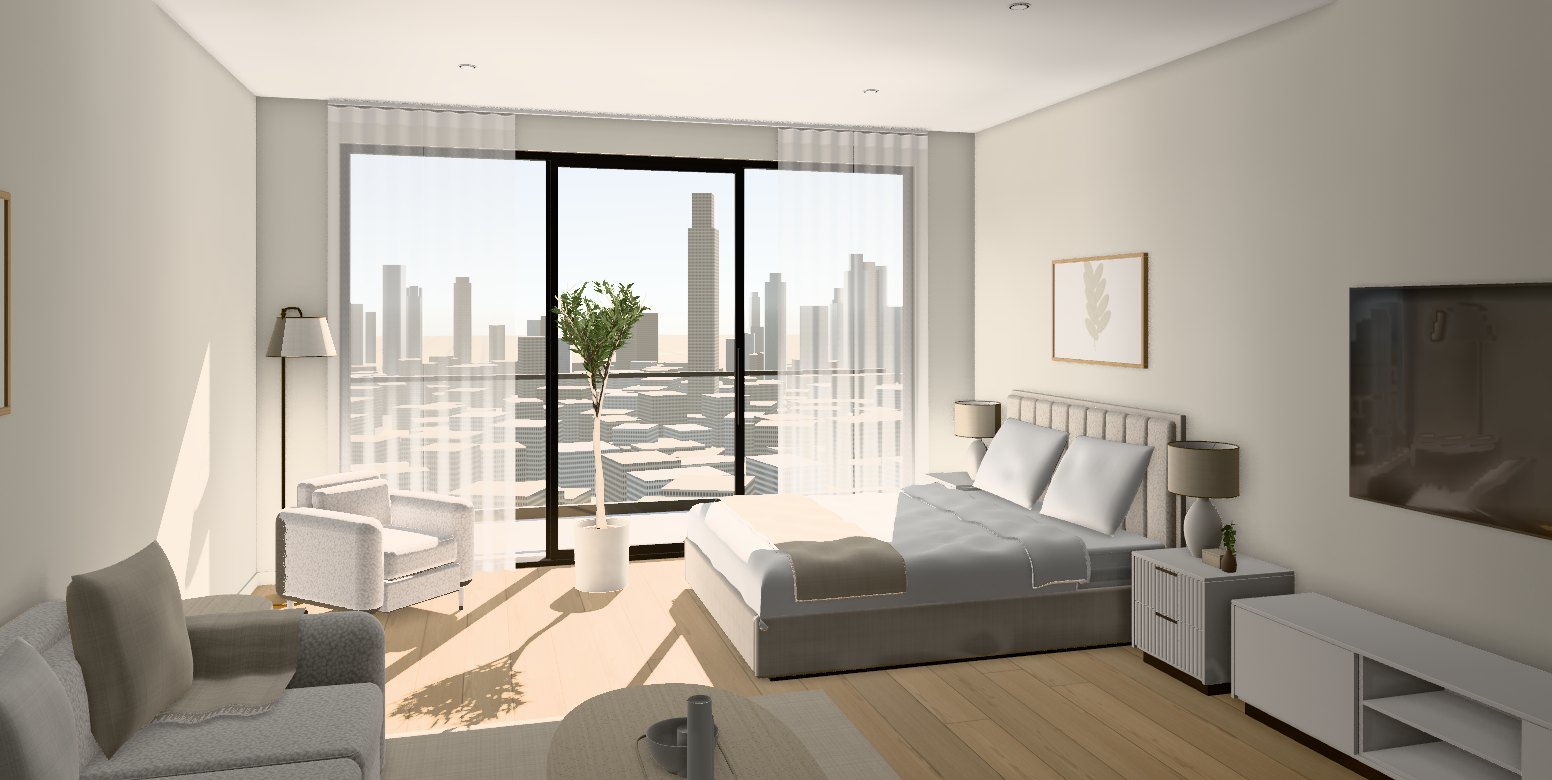
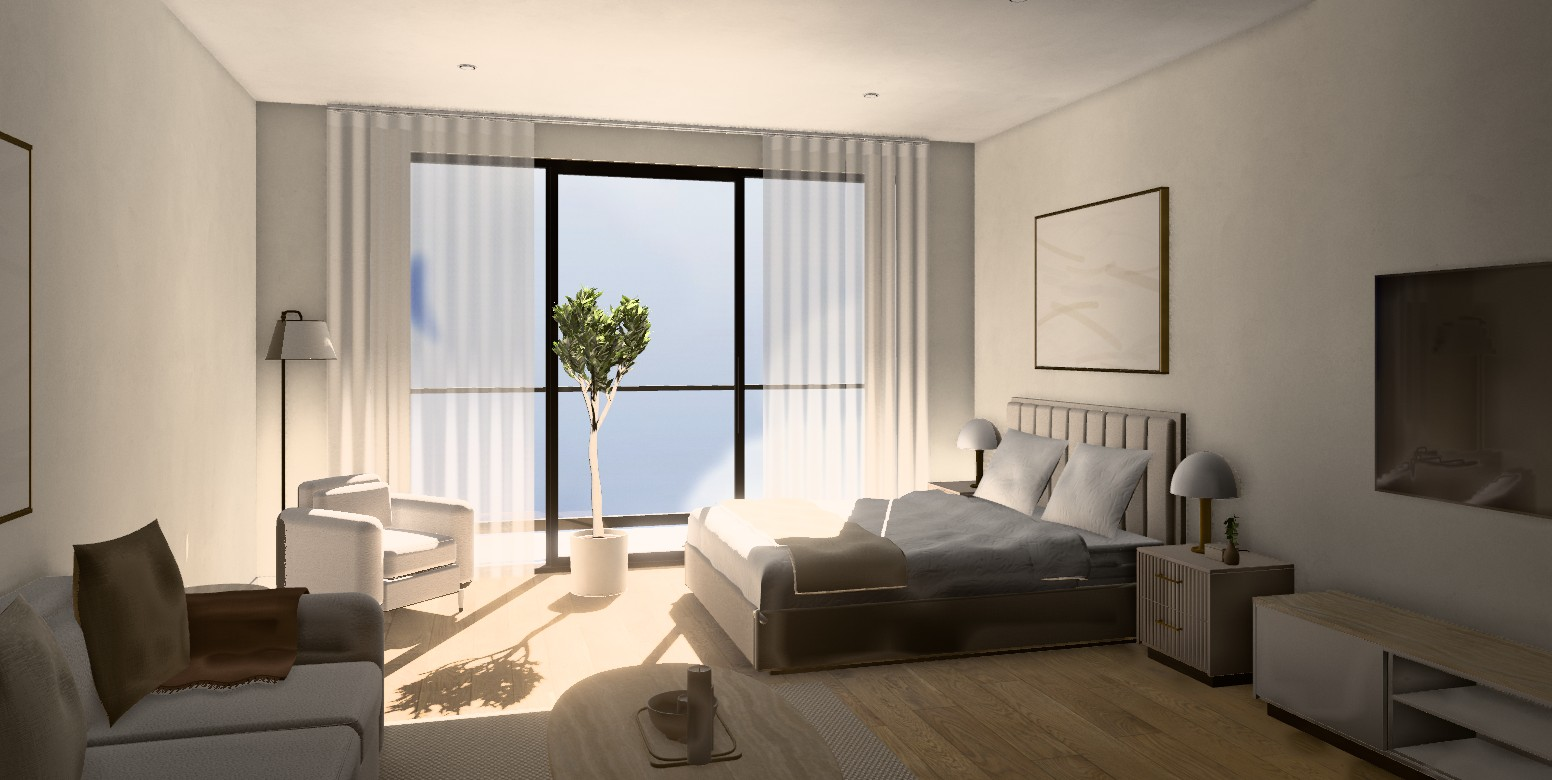
Loading posters without the city; fix mis-scaled AO in captured frames
- All five loading posters re-shot at today's Entry pose with a sky-only window.
- capture() sampled the ambient-occlusion texture at the canvas size, not the
  capture size, which left ghost outlines in captured frames.

Claude-Session: https://claude.ai/code/session_019rt1Mgt1YcHa9Gir2vaEcD

diff --git a/site/js/engine/post.js b/site/js/engine/post.js
@@ -490,7 +490,9 @@ export function createPost({ renderer, scene, camera, quality = 'high', aoBox = 
   function syncSSAO() {
     const on = gtao.enabled;
     SSAO.villarSSAO.value = on ? gtao.pdRenderTarget.texture : WHITE;
-    renderer.getDrawingBufferSize(sizeV);
+    // the size the beauty pass renders at (a capture renders at its own size, not the canvas's: with the canvas
+    // size here every captured frame carried a mis-scaled AO image, visible as ghost outlines)
+    sizeV.set(rt.width, rt.height);
     SSAO.villarSSAOInv.value.set(1 / Math.max(1, sizeV.x), 1 / Math.max(1, sizeV.y));
   }
   syncSSAO();
